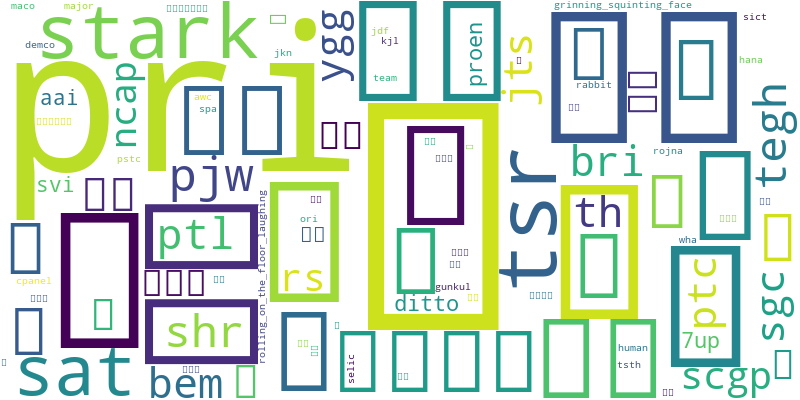
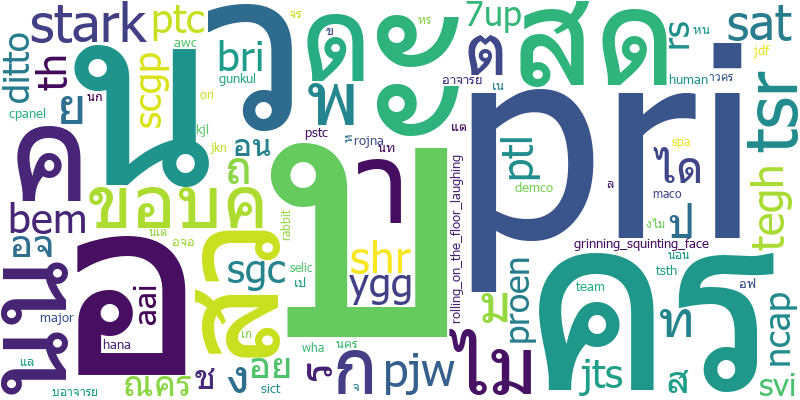
Fix Word Cloud Thai font rendering - add Tahoma font path

diff --git a/generate_charts.py b/generate_charts.py
@@ -12,6 +12,8 @@ matplotlib.use('Agg')
 import matplotlib.pyplot as plt
 from wordcloud import WordCloud
 
+THAI_FONT = r"C:\Windows\Fonts\tahoma.ttf"
+
 JSON_CHAT_LOG = "json_dataset/chat_log.json"
 JSON_CHAT_ANALYTICS = "json_dataset/chat_analytics.json"
 OUTPUT_DIR = "images"
@@ -106,6 +108,7 @@ wc = WordCloud(
     max_words=100,
     colormap='viridis',
     collocations=False,
+    font_path=THAI_FONT,
 ).generate(text if text.strip() else "no data")
 wc_img = wc.to_image()
 wc_img.save(os.path.join(OUTPUT_DIR, "wordcloud.png"))

diff --git a/main.py b/main.py
@@ -17,6 +17,8 @@ matplotlib.use('Agg')
 import matplotlib.pyplot as plt
 from wordcloud import WordCloud
 
+THAI_FONT = r"C:\Windows\Fonts\tahoma.ttf"
+
 MONGO_URI = "mongodb://localhost:27017"
 DB_NAME = "youtube"
 CHAT_COLLECTION = "chat_log"
@@ -161,6 +163,7 @@ def generate_wordcloud(text_series):
         max_words=100,
         colormap='viridis',
         collocations=False,
+        font_path=THAI_FONT,
     ).generate(text)
     img_buf = io.BytesIO()
     wc.to_image().save(img_buf, format='PNG')